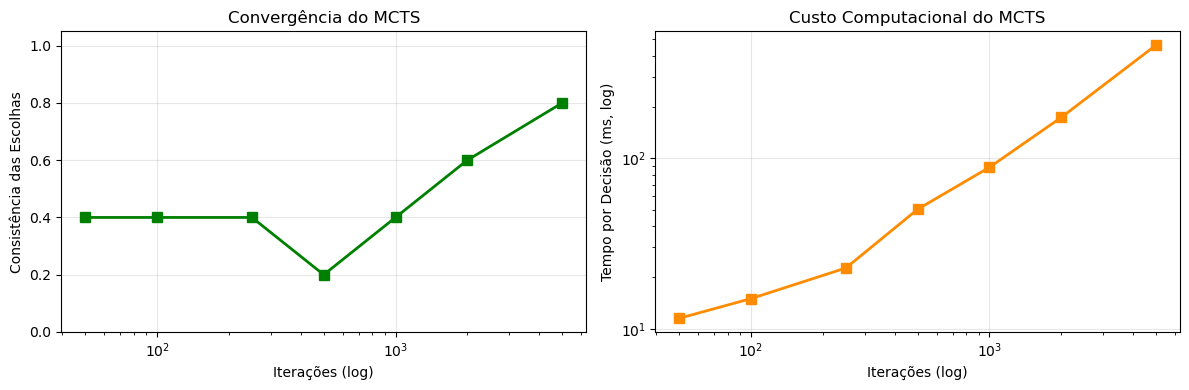
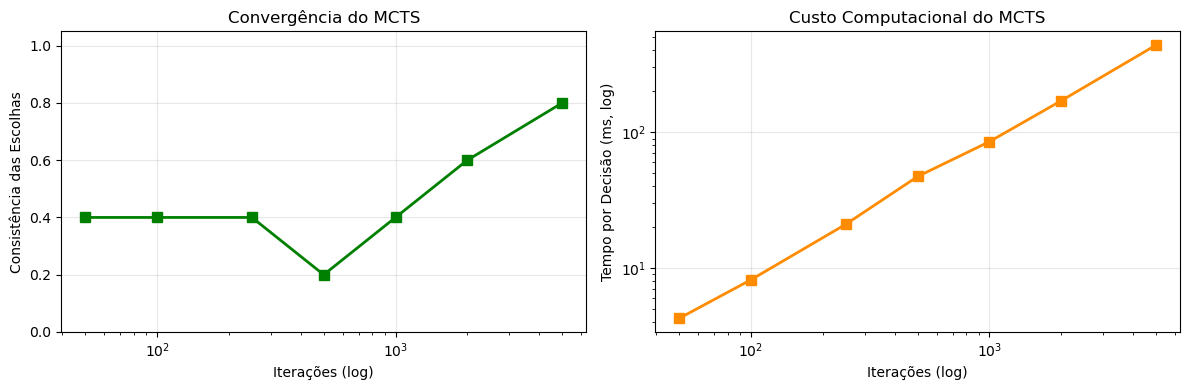
fix: correct discretizer dtype, README commands, and ID3 notebook reference
- discretizer.py: astype(str) → astype(object) to match test expectations
- README.md: fix dataset_generator module path and notebook path
- Technical_Documentation.ipynb: replace sklearn DecisionTreeClassifier with custom ID3Classifier
- Add generated figures to data/figures/ for notebook visualizations

diff --git a/src/decision_tree/discretizer.py b/src/decision_tree/discretizer.py
@@ -46,6 +46,6 @@ def apply_bins(df: pd.DataFrame, bins: Dict[str, list[float]]) -> pd.DataFrame:
         n_classes = len(edges) + 1
         labels = base_labels[:n_classes]
         cut_edges = [-float("inf")] + edges + [float("inf")]
-        out[col] = pd.cut(out[col], bins=cut_edges, labels=labels, include_lowest=True).astype(str)
+        out[col] = pd.cut(out[col], bins=cut_edges, labels=labels, include_lowest=True).astype(object)
 
     return out

diff --git a/README.md b/README.md
@@ -105,13 +105,13 @@ No jogo: `d3` = drop na coluna 3, `p0` = pop na coluna 0.
 ### Gerar dataset
 
 ```bash
-python -m src.ml.dataset_generator --variant uct_standard --samples 200 --iterations 150 --seed 42
+python -m src.decision_tree.dataset_generator --variant uct_standard --samples 200 --iterations 150 --seed 42
 ```
 
 ### Notebook
 
 ```bash
-jupyter notebook PopOut_Solution.ipynb
+jupyter notebook notebooks/PopOut_Solution.ipynb
 ```
 
 ---
